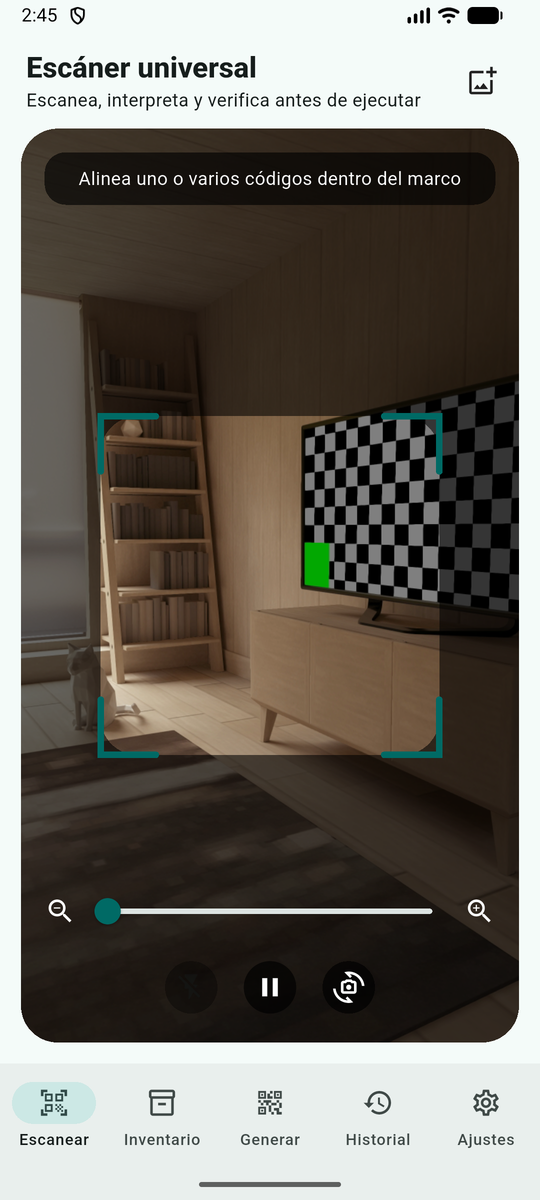
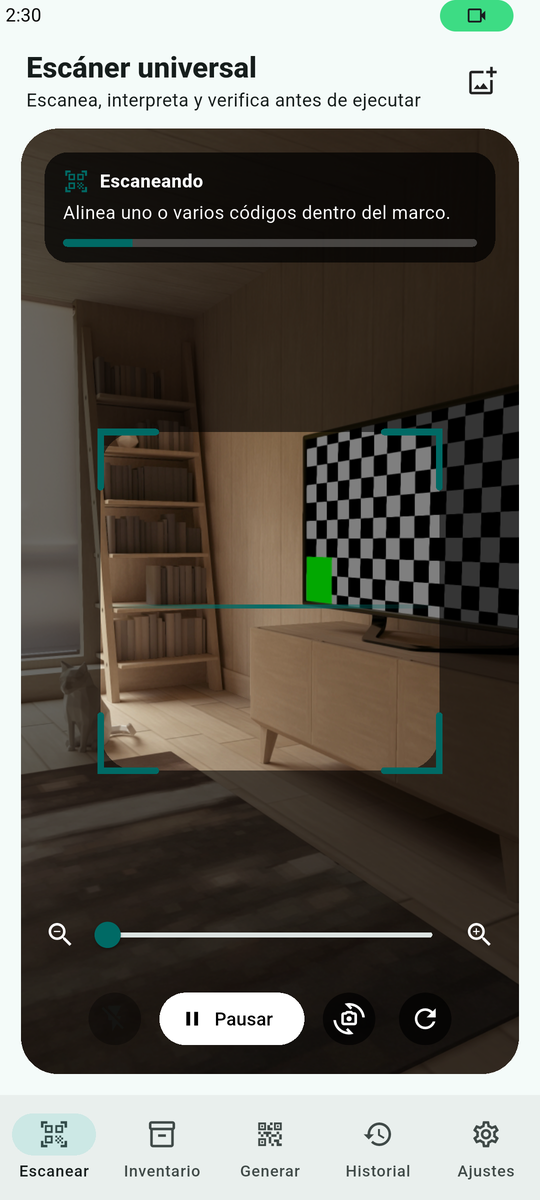
Actualizar el README con la pantalla real de 1.1.0 y quitar el icono suelto
- Eliminado el icono centrado que abría el archivo: quedaba encima del título
  y del banner ASCII, tres cabeceras seguidas para lo mismo. El icono pasa a la
  sección de instalación, donde sí aporta: es el que se busca en el cajón de
  aplicaciones después de instalar el APK.
- Captura de la pestaña Escanear regenerada desde el APK release de 1.1.0
  instalado en el emulador de Android API 36. Muestra la barra de estado en
  «Escaneando», el marco con la línea de lectura y los cuatro controles. Las
  demás capturas siguen siendo de 1.0.0 y así queda dicho en el texto.
- Añadida la tabla «Si un código no se lee»: qué significa cada estado y qué
  hacer, que es lo que hace falta al probar en un teléfono.
- Tamaños de los APK medidos en esta versión en lugar de aproximados.

diff --git a/README.md b/README.md
@@ -1,7 +1,3 @@
-<p align="center">
-  <img src="assets/launcher/icon-1024.png" width="128" alt="Icono de Universal Code Scanner: marco de lectura con un patrón QR al centro" />
-</p>
-
 # Universal Code Scanner
 
 ```text
@@ -76,16 +72,24 @@ Los APK de cada versión están en
 [Releases](https://github.com/vladimiracunadev-create/universal-code-scanner/releases/latest).
 Descarga el que corresponda a tu teléfono:
 
-| Archivo | Para quién | Tamaño aproximado |
+| Archivo | Para quién | Tamaño en 1.1.0 |
 |---|---|---|
-| `app-arm64-v8a-release.apk` | **Prácticamente cualquier móvil actual** | ~32 MB |
-| `app-armeabi-v7a-release.apk` | Móviles antiguos de 32 bits | ~30 MB |
-| `app-x86_64-release.apk` | Emuladores y equipos x86 | ~34 MB |
+| `app-arm64-v8a-release.apk` | **Prácticamente cualquier móvil actual** | 32,8 MB |
+| `app-armeabi-v7a-release.apk` | Móviles antiguos de 32 bits | 26,8 MB |
+| `app-x86_64-release.apk` | Emuladores y equipos x86 | 35,3 MB |
 | `app-release.apk` | Universal: funciona en todos, pesa el triple | ~92 MB |
 
 Android pedirá permiso para instalar desde una fuente desconocida; es el flujo
 normal de cualquier APK que no venga de una tienda. Cada archivo publica su
 SHA-256 para que puedas verificar la descarga.
+
+Al terminar, este es el icono que buscarás en el cajón de aplicaciones:
+
+<img src="assets/launcher/icon-1024.png" width="72" alt="Icono de Universal Code Scanner: marco de lectura con un patrón QR al centro" />
+
+La primera vez que abras la pestaña **Escanear**, Android pedirá el permiso de
+cámara. Concédelo: sin él la barra de estado dirá «Cámara no disponible» y
+ofrecerá reintentar.
 
 > [!IMPORTANT]
 > Estos APK están firmados con la **clave de depuración** de Android
@@ -157,6 +161,17 @@ cuanto se apagan los sonidos táctiles— y vibra. Sonido y vibración son dos
 ajustes independientes, y con movimiento reducido activado la barra y el marco se
 dibujan quietos.
 
+### Si un código no se lee
+
+| Lo que ves | Qué significa | Qué hacer |
+|---|---|---|
+| «Escaneando» y la barra en movimiento, pero el código no entra | El motor sí está analizando: el problema es el encuadre, la distancia o la luz | Acerca o aleja el teléfono, usa el zoom, enciende la linterna o toca la imagen para enfocar |
+| «Escaneando» y ningún código de ningún tipo entra | El recorte de lectura podría no coincidir con lo que ves | Toca **Reiniciar cámara**, o desactiva **Marco de lectura** en Ajustes para analizar toda la imagen |
+| «Iniciando cámara…» que no avanza | La cámara no llegó a entregar imagen | **Reiniciar cámara**; si persiste, cierra otras aplicaciones que la estén usando |
+| «Cámara no disponible» | Falta el permiso, o el sistema negó el acceso | Concede el permiso de cámara en los ajustes de Android y pulsa **Reintentar** |
+| «Escaneo en pausa» | La lectura está detenida a propósito | Pulsa **Escanear** o toca la vista previa |
+| Lee, pero no suena | El sonido está desactivado en Ajustes, o el teléfono está en silencio | Revisa **Sonido** en Ajustes y el volumen multimedia |
+
 Detalle por estado, causas del fallo corregido en 1.1.0 y comparación con las
 convenciones de otros lectores en
 [`docs/quality/SCANNER_UX.md`](docs/quality/SCANNER_UX.md).
@@ -166,10 +181,12 @@ convenciones de otros lectores en
 ## 📸 Capturas
 
 La aplicación corriendo en el emulador oficial de Android (API 36), desde el APK
-release compilado en este repositorio:
+release compilado en este repositorio. La captura de **Escanear** corresponde a
+1.1.0 y muestra la barra de estado en «Escaneando»; las demás se tomaron en
+1.0.0 sobre pantallas que no han cambiado:
 
 <p align="center">
-  <img src="docs/images/capturas/escanear.png" width="235" alt="Pestaña Escanear: marco de lectura con esquinas, zoom, linterna, pausa y cambio de cámara" />
+  <img src="docs/images/capturas/escanear.png" width="235" alt="Pestaña Escanear: barra de estado en «Escaneando» con barra de progreso, marco con esquinas y línea de lectura, zoom y botones de linterna, pausar, cambiar cámara y reiniciar" />
   &nbsp;&nbsp;
   <img src="docs/images/capturas/generar.png" width="235" alt="Pestaña Generar: tipo de contenido, formato, corrección de errores y QR renderizado" />
   &nbsp;&nbsp;
